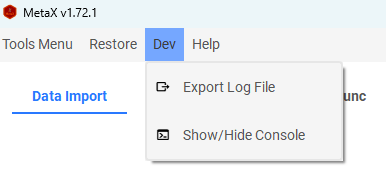
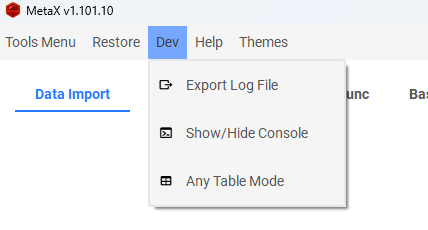
Updated the MetaX Cookbook with new images and content. ```

diff --git a/Docs/MetaX_Cookbook.md b/Docs/MetaX_Cookbook.md
@@ -390,13 +390,12 @@ We can select <u>**meta**</u> <u>**groups**</u> or <u>**samples**</u> (default a
     - **<u>For Bar</u>**
       - **Bar Ldg**: Show the legend when plotting Bar
       - **Bar %:**  Transfer each col to percent when plotting Bar
-
-        - <img src="./MetaX_Cookbook.assets/basic_stats_heatmap_seeting.png" alt="basic_stats_heatmap_seeting" style="zoom:80%;" />
-
+      - <img src="./MetaX_Cookbook.assets/basic_stats_heatmap_seeting.png" alt="basic_stats_heatmap_seeting" style="zoom:80%;" />
+    
   - Plot all color maps to view by right click <u>**Theme**</u>
     - ![right_click_theme](MetaX_Cookbook.assets/right_click_theme.png)
     - <img src="MetaX_Cookbook.assets/all_cmap.png" alt="all_cmap" style="zoom: 50%;" />
-
+  
 - **Plot:**
 
   <img src="./MetaX_Cookbook.assets/heatmap_original.png" alt="heatmap_original" style="zoom:50%;" />
@@ -530,10 +529,10 @@ We can select <u>**meta**</u> <u>**groups**</u> or <u>**samples**</u> (default a
 
   - **Comparing in Each Condition:** Select a meta such as individual, then comparing groups to control in each individual.
 
-  - ![image-20240311121010996](C:\Users\max\OneDrive - University of Ottawa\code\TaxaFunc\MetaX\docs\MetaX_Cookbook.assets\group_control_test.png)
+  - ![image-20240311121010996](./MetaX_Cookbook.assets\group_control_test.png)
   - Result of Dunnett's Test:
     - T- Statistic value show in the heatmap
-  - ![image-20240311121834429](C:\Users\max\OneDrive - University of Ottawa\code\TaxaFunc\MetaX\docs\MetaX_Cookbook.assets\image-20240311121834429.png)
+  - ![image-20240311121834429](./MetaX_Cookbook.assets\image-20240311121834429.png)
 
 
 
@@ -686,10 +685,22 @@ We can select <u>**meta**</u> <u>**groups**</u> or <u>**samples**</u> (default a
 # Developer Tools
 
 - **Export Log**
+
   - You can export the log file for debugging or reporting the issue.
   - ![image-20230816114901459](MetaX_Cookbook.assets/expot_log.png)
+
 - **Show or Hide the Console**
+
   - <img src="MetaX_Cookbook.assets/show_console.png" alt="show_console" style="zoom: 50%;" />
+
+- **Any Table Mode**
+
+  - <u>Any Table Mode</u> enables us to use **any matrix** for basic statistical analysis in MetaX.
+
+  - ![](MetaX_Cookbook.assets/any_table_mode.png)
+
+    
+
 
 # Enjoy MetaX
 
